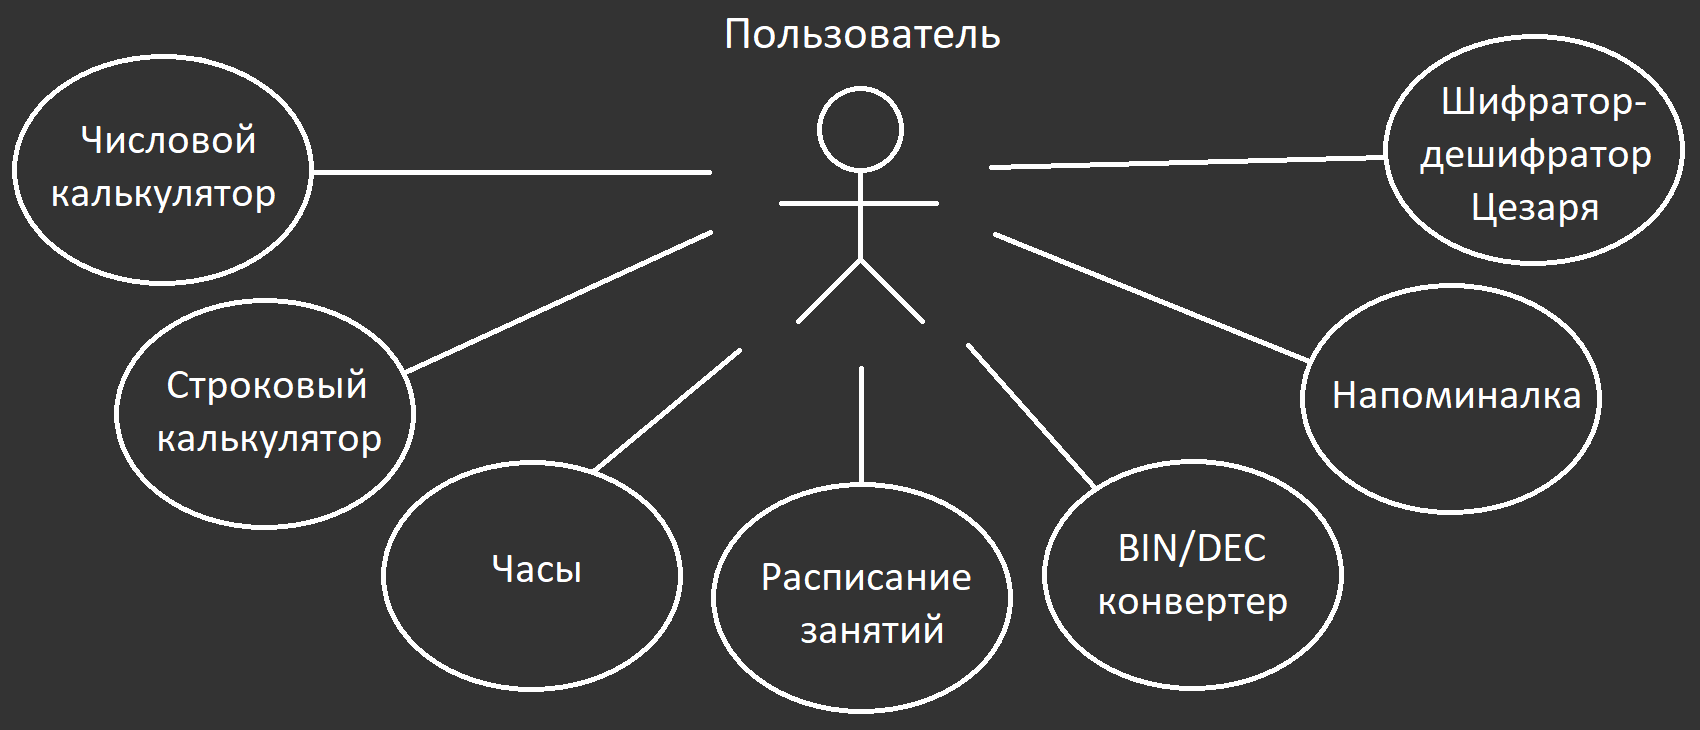
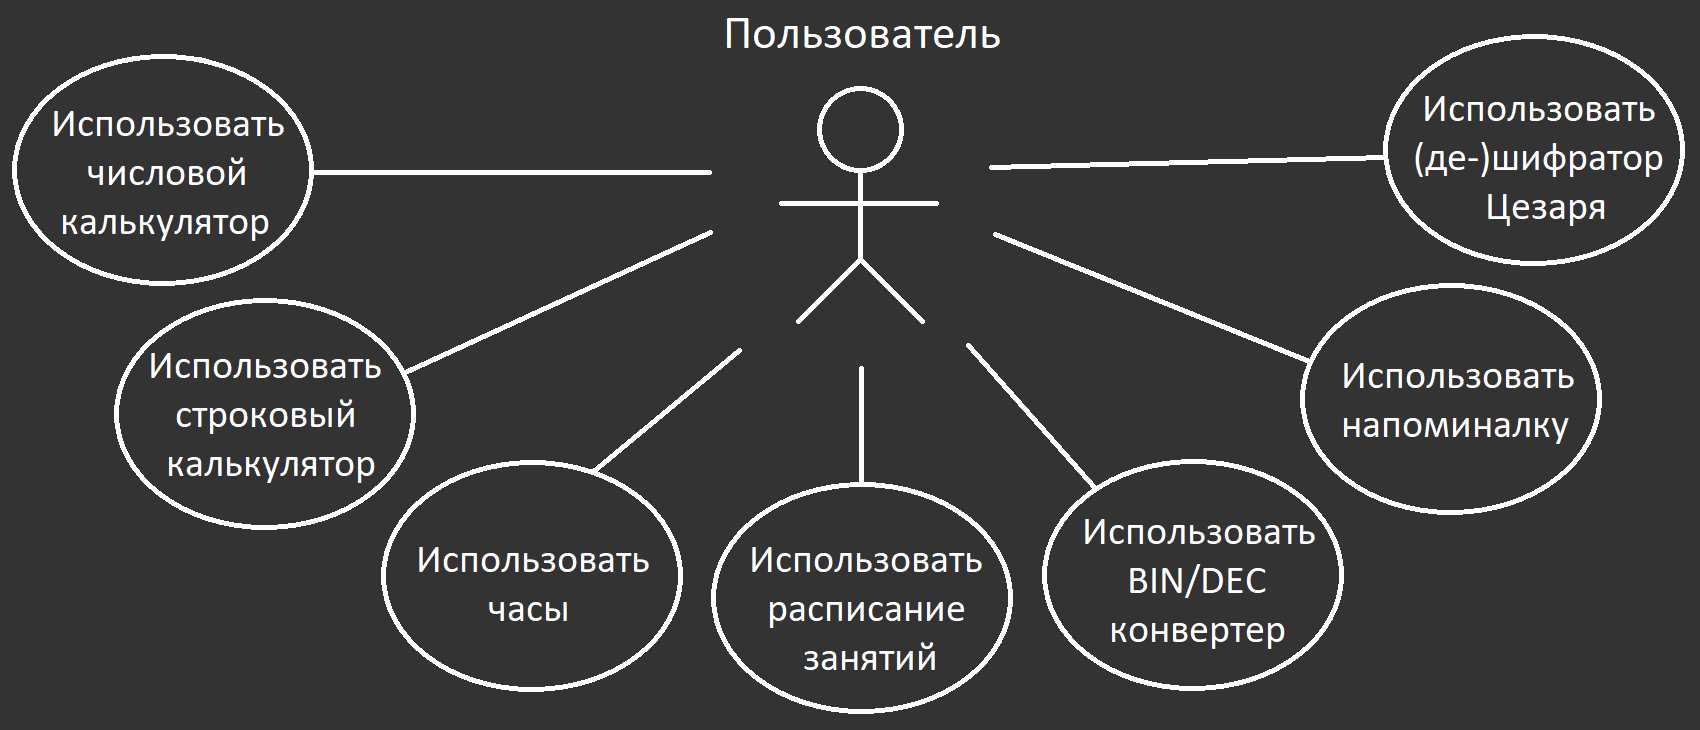
Подправил формат вывода времени, обновил примеры testFunc1/2, обновил сайт (реализованы "часы"), исправил диаграммы вариантов использования.

diff --git a/emap.html b/emap.html
@@ -79,7 +79,7 @@
                         </li>
                         <li>
                             <ul>Точило Олег
-                                <li class="in-process">Реализовал вывод текущего времени</li>
+                                <li>Реализовал вывод текущего времени</li>
                             </ul>
                         </li>
                     </ol>
@@ -98,13 +98,9 @@
                         </tr>
 
                         <tr>
-                            <td class="subject" rowspan="2">Числовой калькулятор</td>
+                            <td class="subject">Числовой калькулятор</td>
                             <td class="in-process">#1-001</td>
-                            <td>Как Пользователь, я хочу использовать «калькулятор», чтобы выполнять арифметические операции над дробными числами.</td>
-                        </tr>
-                        <tr>
-                            <td class="in-process">#1-002</td>
-                            <td>Как Пользователь, я хочу использовать «калькулятор», чтобы выполнять арифметические операции над создаваемыми переменными.</td>
+                            <td>Как Пользователь, я хочу использовать «калькулятор», чтобы выполнять арифметические операции над числами.</td>
                         </tr>
 
                         <tr>
@@ -131,14 +127,14 @@
                         
                         <tr>
                             <td class="subject">Часы</td>
-                            <td class="in-process">#3-001</td>
+                            <td class="done">#3-001</td>
                             <td>Как Пользователь, я хочу использовать «часы», чтобы посмотреть текущее время.</td>
                         </tr>
 
                         <tr>
                             <td class="subject">Расписание занятий</td>
                             <td class="in-process">#4-001</td>
-                            <td>Как Пользователь, я хочу использовать «расписание занятий», чтобы посмотреть расписание занятий на заданный день.</td>
+                            <td>Как Пользователь, я хочу использовать «расписание занятий», чтобы посмотреть расписание на заданный день.</td>
                         </tr>
 
                         <tr>

diff --git a/styles.css b/styles.css
@@ -170,7 +170,7 @@ p#start-data {
 }
 #diagrams figcaption {
     text-align: center;
-    font-size: larger;
+    font-size: 25px;
     font-style: italic;
     color: lightblue;
 }
@@ -182,17 +182,15 @@ p#start-data {
     display: block;
 }
 #num-calc-diagram img,
-#bin-dec-converter-diagram img,
-#caesar-cipher-diagram img {
-    width: 300px;
-}
-#str-calc-diagram img {
-    width: 500px;
-}
+#str-calc-diagram img,
 #clock-diagram img,
-#timetable-diagram img,
+#timetable-diagram img {
+    width: 425px;
+}
+#bin-dec-converter-diagram img,
+#caesar-cipher-diagram img,
 #reminder-diagram img {
-    width: 300px;
+    width: 250px;
 }
 
 #project-history table {

diff --git a/emap/test_func2.cpp b/emap/test_func2.cpp
@@ -4,6 +4,8 @@ using namespace std;
 
 void testFunc2()
 {
+    system("CLS");
+
     char answer;
     do
     {

diff --git a/README.md b/README.md
@@ -37,15 +37,12 @@
 <i>Пример:</i> если функция задания имеет имя stringCalculator, то файл реализации будет иметь имя string_calculator(.cpp)<br><br>
 В зависимости от задания, файл реализации имеет одну из двух следующих структур:<br>
 <br>
-1) Если задача условно неделима, то сначала выполняется основная функция задачи, затем выводится меню выбора: выполнить задачу ещё раз, выйти в меню или выйти из программы.<br>
-<i>Пример: задача - вывод текущего времени.</i><br>
-Пользователь в главном меню (в main() ) выбирает вариант "вывести текущее время", main() вызывает функцию void currentTime() (прототип функции в current_time.h, реализация в current_time.cpp), функция сначала выводит текущее время, затем выводит меню выбора: вывести текущее время (т.е. снова), перейти в меню или выйти из программы. <b>Шаблон кода: см. testFunc1.h и testFunc1.cpp</b><br>
+1) Если задача условно неделима, то выполняется основная функция задачи, затем осуществляется переход в главное меню программы.<br>
+<b>Шаблон кода: см. testFunc1.h и testFunc1.cpp</b><br>
 <br>
-2) Если задача делимая, т.е. если пользователь сразу выбирает, что будет делать программа, то сначала выводится меню выбора: выполнить первую подзадачу, выполнить вторую подзадачу, выйти в меню или выйти из программы - и только потом выполняется подзадача. Обратите внимание: в первом случае сначала хотя бы раз выполняется задача, во втором можно вернуться в меню до выполнения задачи.<br>
+2) Если задача делимая, т.е. если пользователь выбирает, что будет делать функция, то выводится меню выбора: выполнить первую подзадачу, выполнить вторую подзадачу, ..ю, выйти в меню или выйти из программы - и потом выполняется подзадача.<br>
 <i>Пример: задача - перевод числа из двоичной системы счисления в десятичную и наоборот.</i><br>
-Пользователь в главном меню (в main() ) выбирает вариант "перевести число из...", main() вызывает функцию void binDecConverter() (прототип функции в bin_dec_converter.h, реализация в bin_dec_converter.cpp), функция сначала выводит меню выбора: перевести число из 2-й сист. сч. в 10-ую,  перевести число из 10-й сист. сч. в 2-ую, перейти в меню или выйти из программы - и потом, после выбора пользователя, выполняется перевод введённого числа в нужную систему счисления. <b>Шаблон кода: см. testFunc2.h и testFunc2.cpp</b><br>
-<br>
-<b>Это необязательно</b>, но мне кажется, что реализация циклического выполнения вашей функции с возможностью перейти в меню или выйти из программы удобнее автоматического завершения функции с выходом в меню. Так или иначе, если это не сделаете вы, это сделаю я. Но вы можете сделать мою жизнь чуточку проще.  
+Пользователь в главном меню (в main() ) выбирает вариант "перевести число из...", main() вызывает функцию void binDecConverter() (прототип функции в bin_dec_converter.h, реализация в bin_dec_converter.cpp), функция сначала выводит меню выбора: перевести число из 2-й сист. сч. в 10-ую, перевести число из 10-й сист. сч. в 2-ую, перейти в меню или выйти из программы - и потом, после выбора пользователя, выполняется перевод введённого числа в нужную систему счисления.<br><b>Шаблон кода: см. testFunc2.h и testFunc2.cpp</b><br>
 </p>
 
 <h2>Начало работы</h2>
@@ -79,7 +76,7 @@
             <li>...стиль написания кода такой же, как и в остальном проекте (camelCase для переменных и функций, UPPER_CASE для констант, snake_case для файлов, везде одинаково расставлены пробелы, переносы строк, все переменные (за исключением, может, итераторов) и функции имеют <u>осмысленные</u> имена и т.д. и т.п.).</li>
           </ul>
         </li>
-        <li><b>Всё равно ничего не понятно? - сделайте хоть что-нибудь хоть как-нибудь, а я подправлю. Не затягивайте!</b></li>
+        <li><b>Всё равно ничего не понятно? - сделайте хоть что-нибудь хоть как-нибудь, я подправлю. Не затягивайте!</b></li>
       </ul>
     </li>
     <li>
@@ -101,11 +98,11 @@
 <br>
 Вообще говоря, сначала нужно было создать т.н. <b>бэклог продукта</b>, где будут описываться все требования к нашим функциям, и уже <i>на основе пользовательских историй</i> писать программу проекта. Эти истории (хоть и с небольшим опозданием) я написал, они <b>есть на сайте</b>. Синяя полоска слева от истории означает, что история выполнена, оранжевая - нет (ещё). Получилось что-то похожее на kanban-доску.<br>
 <br>
-<b>Бэклог спринта</b> мы делать не будем, т.к. никто не может сказать даже приблизительно, когда что сделает, а если учитывать, что я планирую покончить с проектом к понедельнику (в пн защитить), то бэклог спринта теряет смысл.<br>
+<b>Бэклог спринта</b> мы делать не будем, т.к. никто не может сказать даже приблизительно, когда что сделает, а если учитывать, что я/мы планирую/ем покончить с проектом к понедельнику (в пн защитить), то бэклог спринта теряет смысл.<br>
 <br>
 <b>Диаграммы вариантов</b> для каждого модуля программы я взял на себя и уже сделал (на сайте проекта), но диаграммы для ещё не реализованных модулей/функций, возможно, нужно будет изменить, т.к. я не могу знать деталей реализации ещё не реализованного модуля.<br>
 <br>
-<b>Система тестов</b>. Тут нужно будет для каждого действия в программе написать последствия, разбив всё на шаги. Было бы хорошо, если бы вы сами написали небольшие системы тестов для своих программ, но делать вы это конечно же не будете, поэтому это опять-таки беру на себя я. Система тестов - единственное, чего ещё нет на сайте, но шаблон будет уже 9 декабря. Опять-таки, я не могу написать все шаги и результаты выполнения программы, пока вы не напишете и не отправите свои модули. Для системы тестов нужно изучить все мелочи кода модулей, а это <b>займёт время</b>, поэтому я ещё раз прошу сделать свои задания как можно скорее, чтобы к ночи с субботы на воскресенье мной была написана вся нужная документация. От вас мне нужен только код, я требую минимум. Постарайтесь, пожалуйста.<br>
+<b>Система тестов</b>. Тут нужно будет для каждого действия в программе написать последствия, разбив всё на шаги. Было бы хорошо, если бы вы сами написали небольшие системы тестов для своих программ, но делать вы это конечно же не будете, поэтому это опять-таки беру на себя я. Система тестов - единственное, чего ещё нет на сайте, но шаблон будет уже скоро. Опять-таки, я не могу написать все шаги и результаты выполнения программы, пока вы не напишете и не отправите свои модули. Для системы тестов нужно изучить все мелочи кода модулей, а это <b>может занять время</b>, поэтому я ещё раз прошу сделать свои задания как можно скорее, чтобы к ночи с субботы на воскресенье мной была написана вся нужная документация. Постарайтесь, пожалуйста.<br>
 </p>
 
 <p> - Раманчук Аляксей</p>
